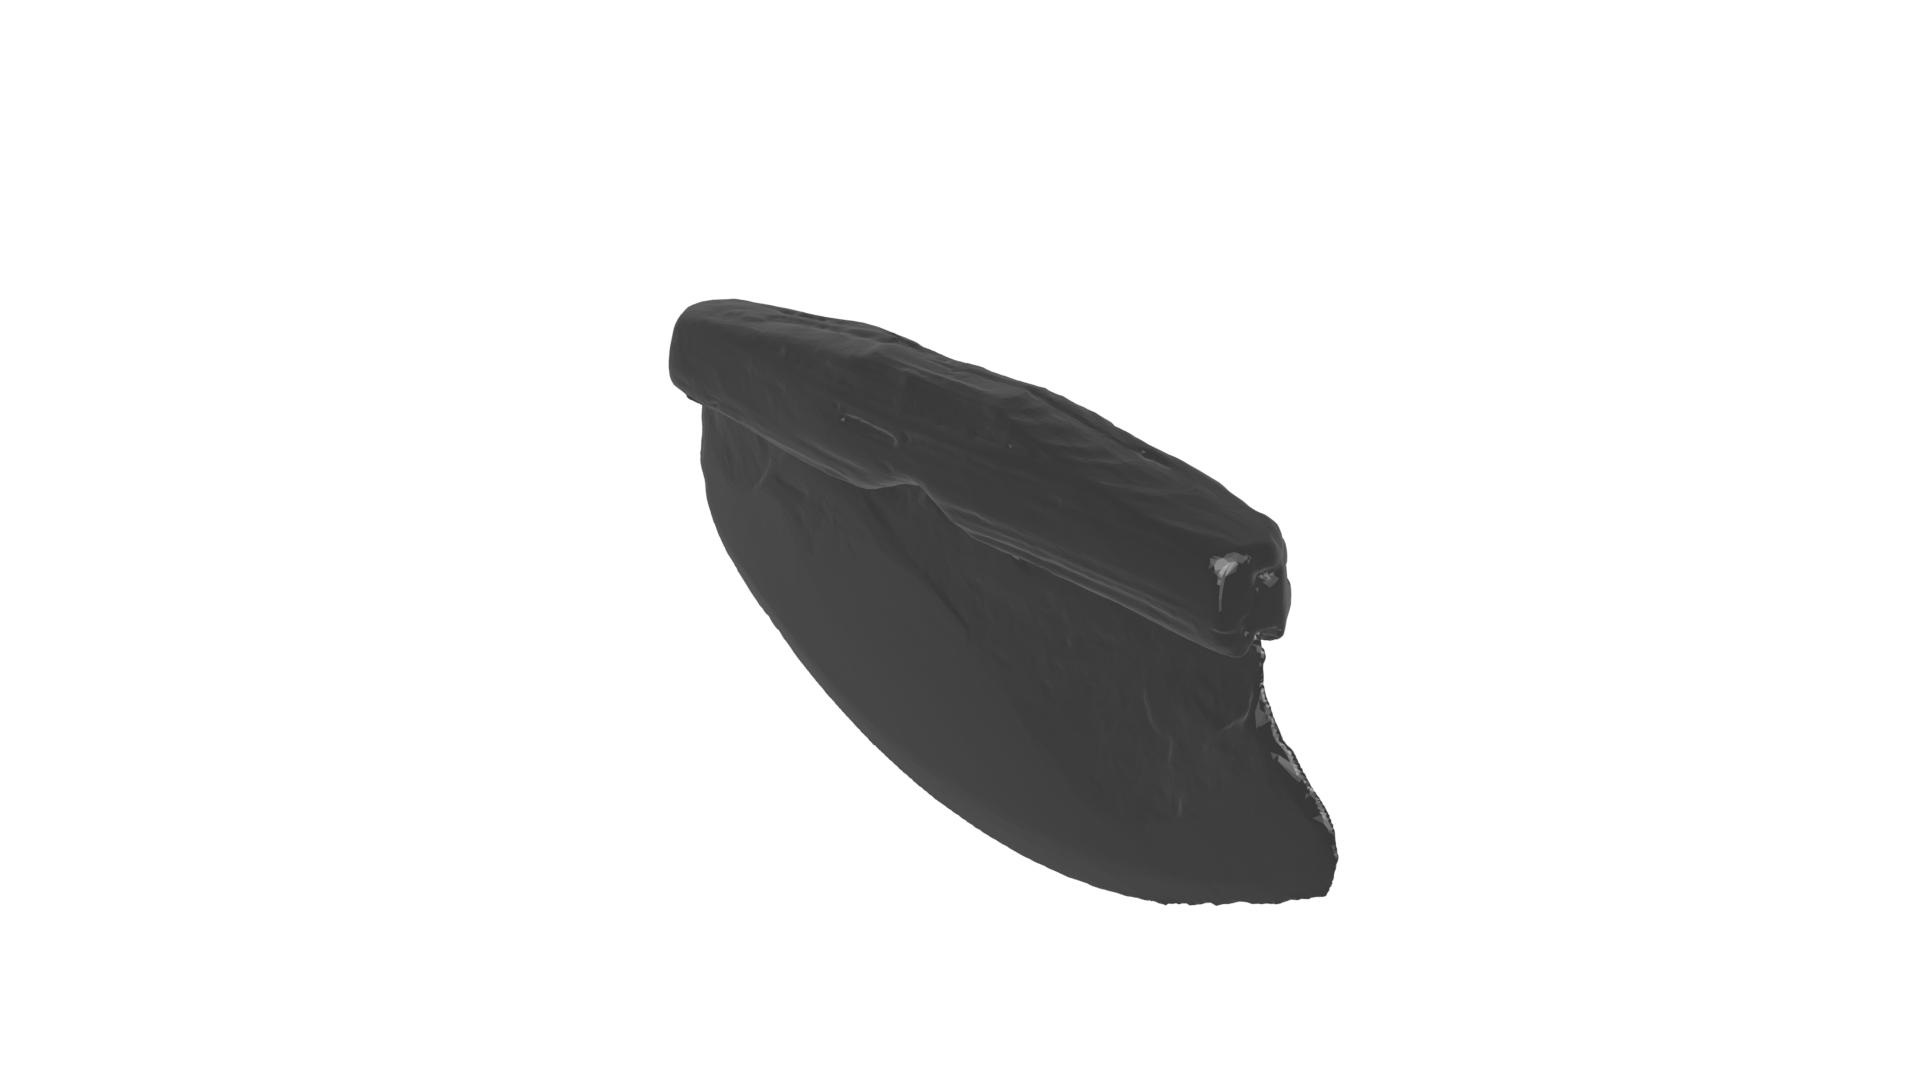
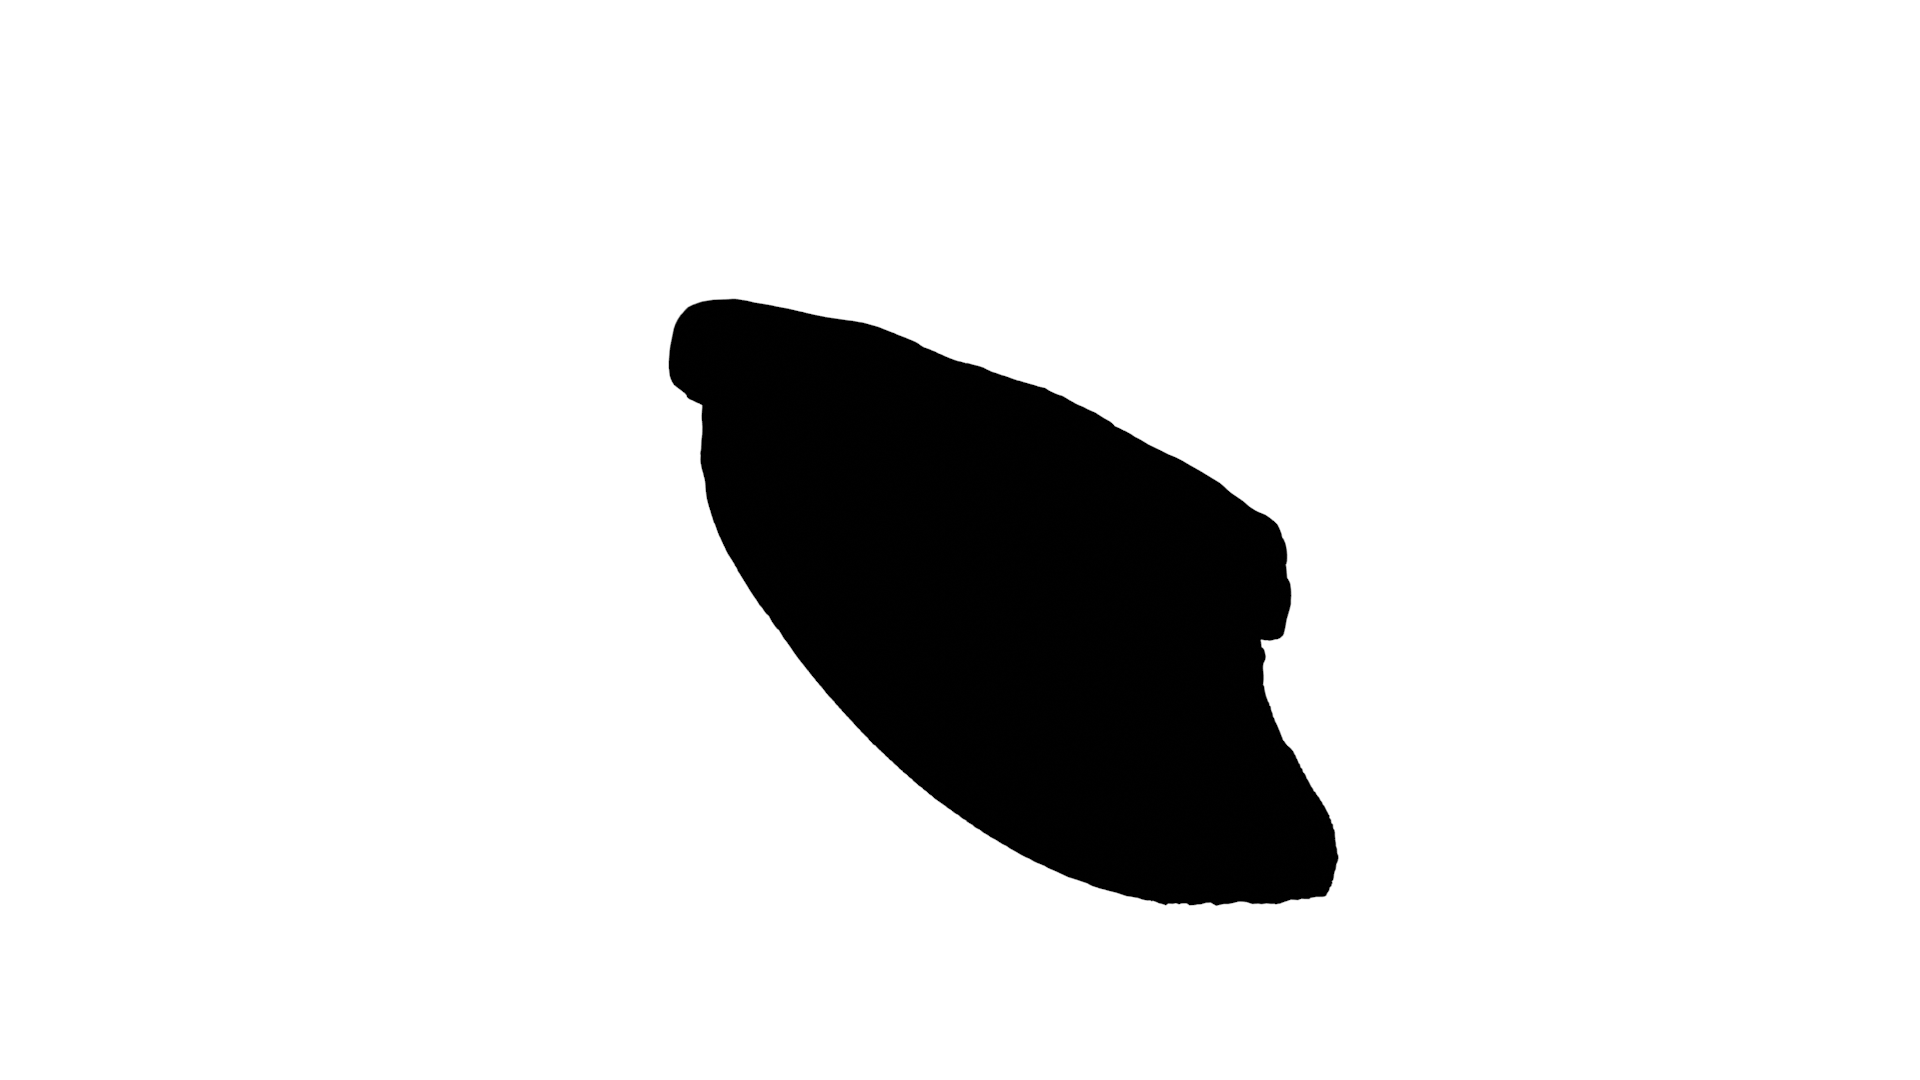
fixed masking in blender.py

Changed region(s): [[0.3438, 0.275, 0.7188, 0.8556]]

diff --git a/blender.py b/blender.py
@@ -79,7 +79,7 @@ def delete_cube():
 delete_cube()
 
 
-def light_aug():
+def light_aug(intensity):
     """this function augments the position of the light source. The location and light intensity could be randomized"""
     # Delete old light
     bpy.ops.object.select_by_type(type="LIGHT")
@@ -89,7 +89,8 @@ def light_aug():
 
     # Create new light datablock.
     light_data = bpy.data.lights.new(name="New Light", type="POINT")
-    light_data.energy = 10000
+    light_data.energy = float(intensity)
+    print(str(light_data.energy))
 
     # Create new object with our light datablock.
     light_object = bpy.data.objects.new(name="New Light", object_data=light_data)
@@ -109,7 +110,7 @@ def light_aug():
     print(list(bpy.data.objects))
 
 
-light_aug()
+light_aug(10000)
 
 cam_loc = bpy.data.objects["Camera"].location
 cam_rot = bpy.data.objects["Camera"].rotation_euler
@@ -139,18 +140,18 @@ def render_obj(path):
             for space in area.spaces:
                 if space.type == "VIEW_3D":
                     space.shading.type = "MATERIAL"
-    #change active object to path (e.g., "Uluaq1214")
-    ob=bpy.context.view_layer.objects.active
-    ob=bpy.data.objects[path]
-    mat = bpy.data.materials.new(name="mask")
-    mat.use_nodes=True
-    ''''need to make the black solid--like a mask. Right now it is not.'''
-    mat.node_tree.nodes["Principled BSDF"].inputs["Base Color"].default_value = (0, 0, 0, 0)
-    ob.data.materials.append(mat)
-    ob.active_material = mat
-    print(list(ob.data.materials.items()))
-    print(list(ob.material_slots))
-    bpy.context.collection.objects.link(ob)
+    #creates a black mask of object as well 
+    led = bpy.data.objects[path]
+    led.animation_data_clear()
+    print(str(bpy.data.materials[2]))
+    led_mat = bpy.data.materials[2]
+    led_mat.use_nodes = True
+    tree = led_mat.node_tree
+    nodes = tree.nodes
+    led_emit = nodes.new("ShaderNodeEmission")
+    led_emit.inputs["Color"].default_value = (0, 0, 0, 1)
+    led_emit.inputs["Color"].keyframe_insert("default_value", frame=1)
+    new_link = tree.links.new(nodes['Material Output'].inputs['Surface'], nodes['Emission'].outputs['Emission'])
     bpy.context.scene.render.filepath="mask.png"
     bpy.ops.render.render(write_still=True)
 
